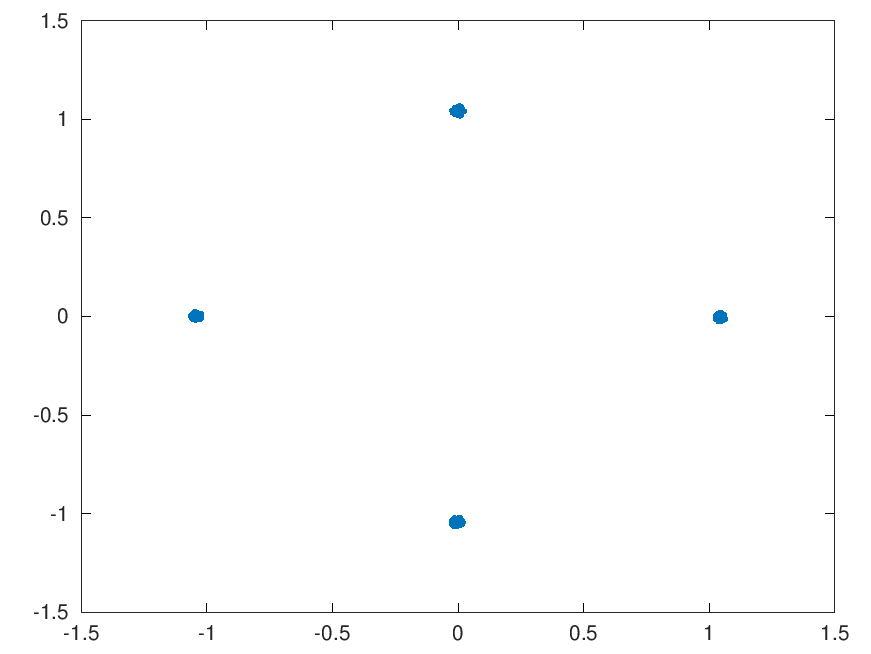
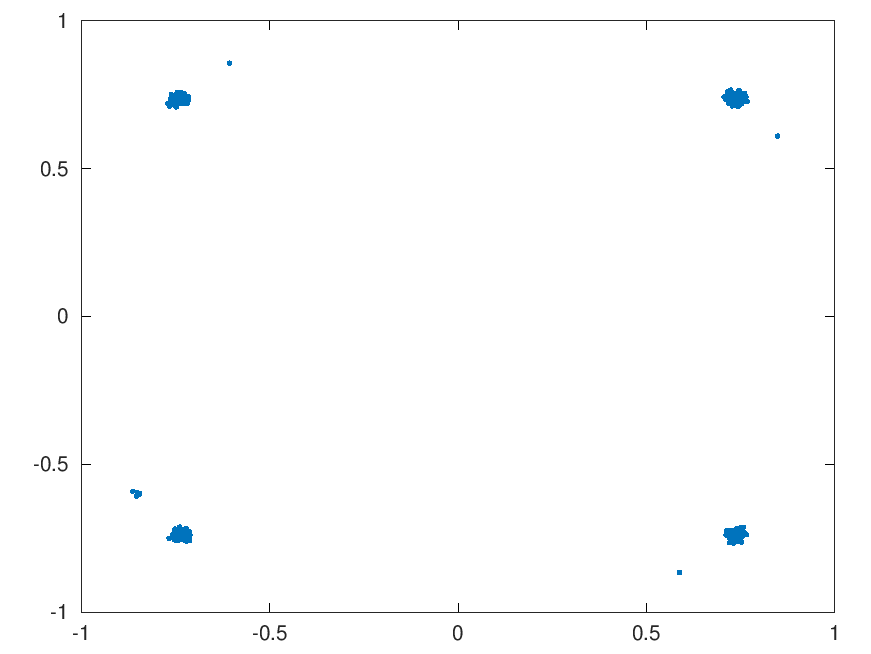
update qpsk.c

diff --git a/qpsk.c b/qpsk.c
@@ -315,7 +315,7 @@ int main(int argc, char** argv) {
      */
     create_control_loop((TAU / 200.0f), -1.6f, 1.6f);
 
-    set_costas_enable(false);
+    //set_costas_enable(false);
 
     /*
      * Create an RRC filter using the
@@ -330,11 +330,11 @@ int main(int argc, char** argv) {
     fout = fopen(TX_FILENAME, "wb");
 
     fbb_tx_phase = cmplx(0.0f);
-    fbb_tx_rect = cmplx(TAU * CENTER / FS);
-    fbb_offset_freq = CENTER;
+    //fbb_tx_rect = cmplx(TAU * CENTER / FS);
+    //fbb_offset_freq = CENTER;
 
-    //fbb_tx_rect = cmplx(TAU * (CENTER + 5.0) / FS);
-    //fbb_offset_freq = (CENTER + 5.0);
+    fbb_tx_rect = cmplx(TAU * (CENTER + 5.0) / FS);
+    fbb_offset_freq = (CENTER + 5.0);
 
     for (int k = 0; k < 100; k++) {
         // 256 QPSK

diff --git a/qpsk.h b/qpsk.h
@@ -11,7 +11,7 @@ extern "C"
 #include <stdint.h>
 #include <math.h> 
 
-#define TX_FILENAME "/tmp/spectrum-filtered.raw"
+#define TX_FILENAME "/tmp/spectrum.raw"
 
 #define FS              9600.0
 #define RS              2400.0
